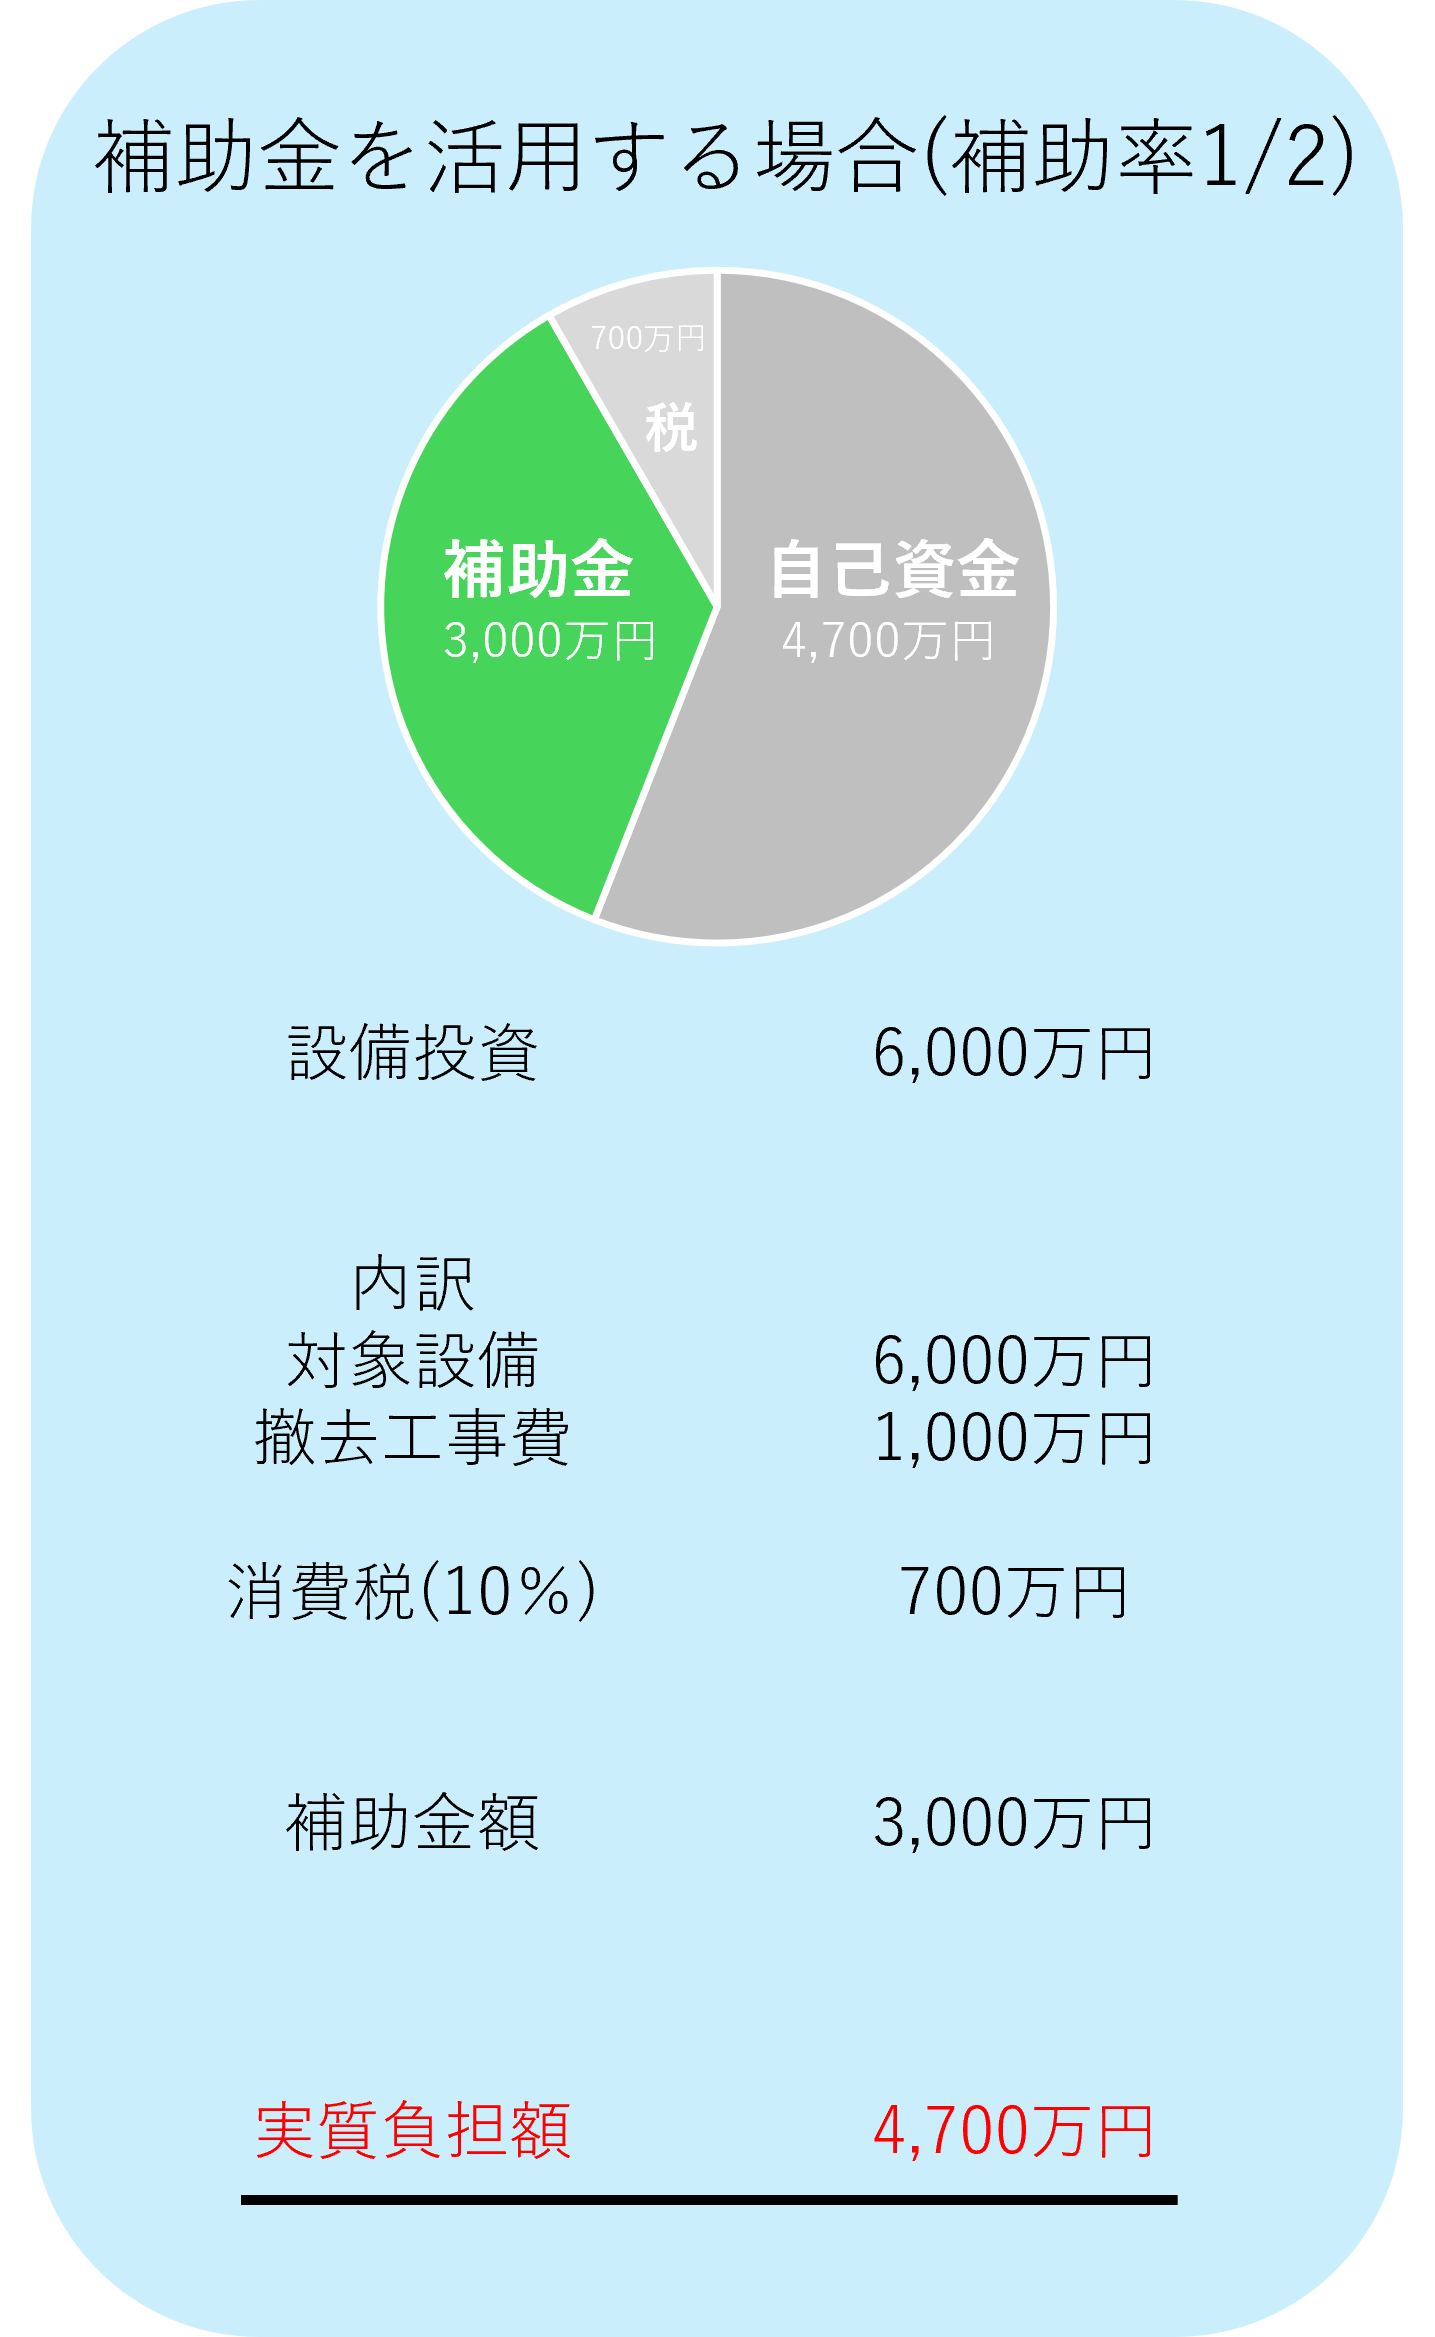
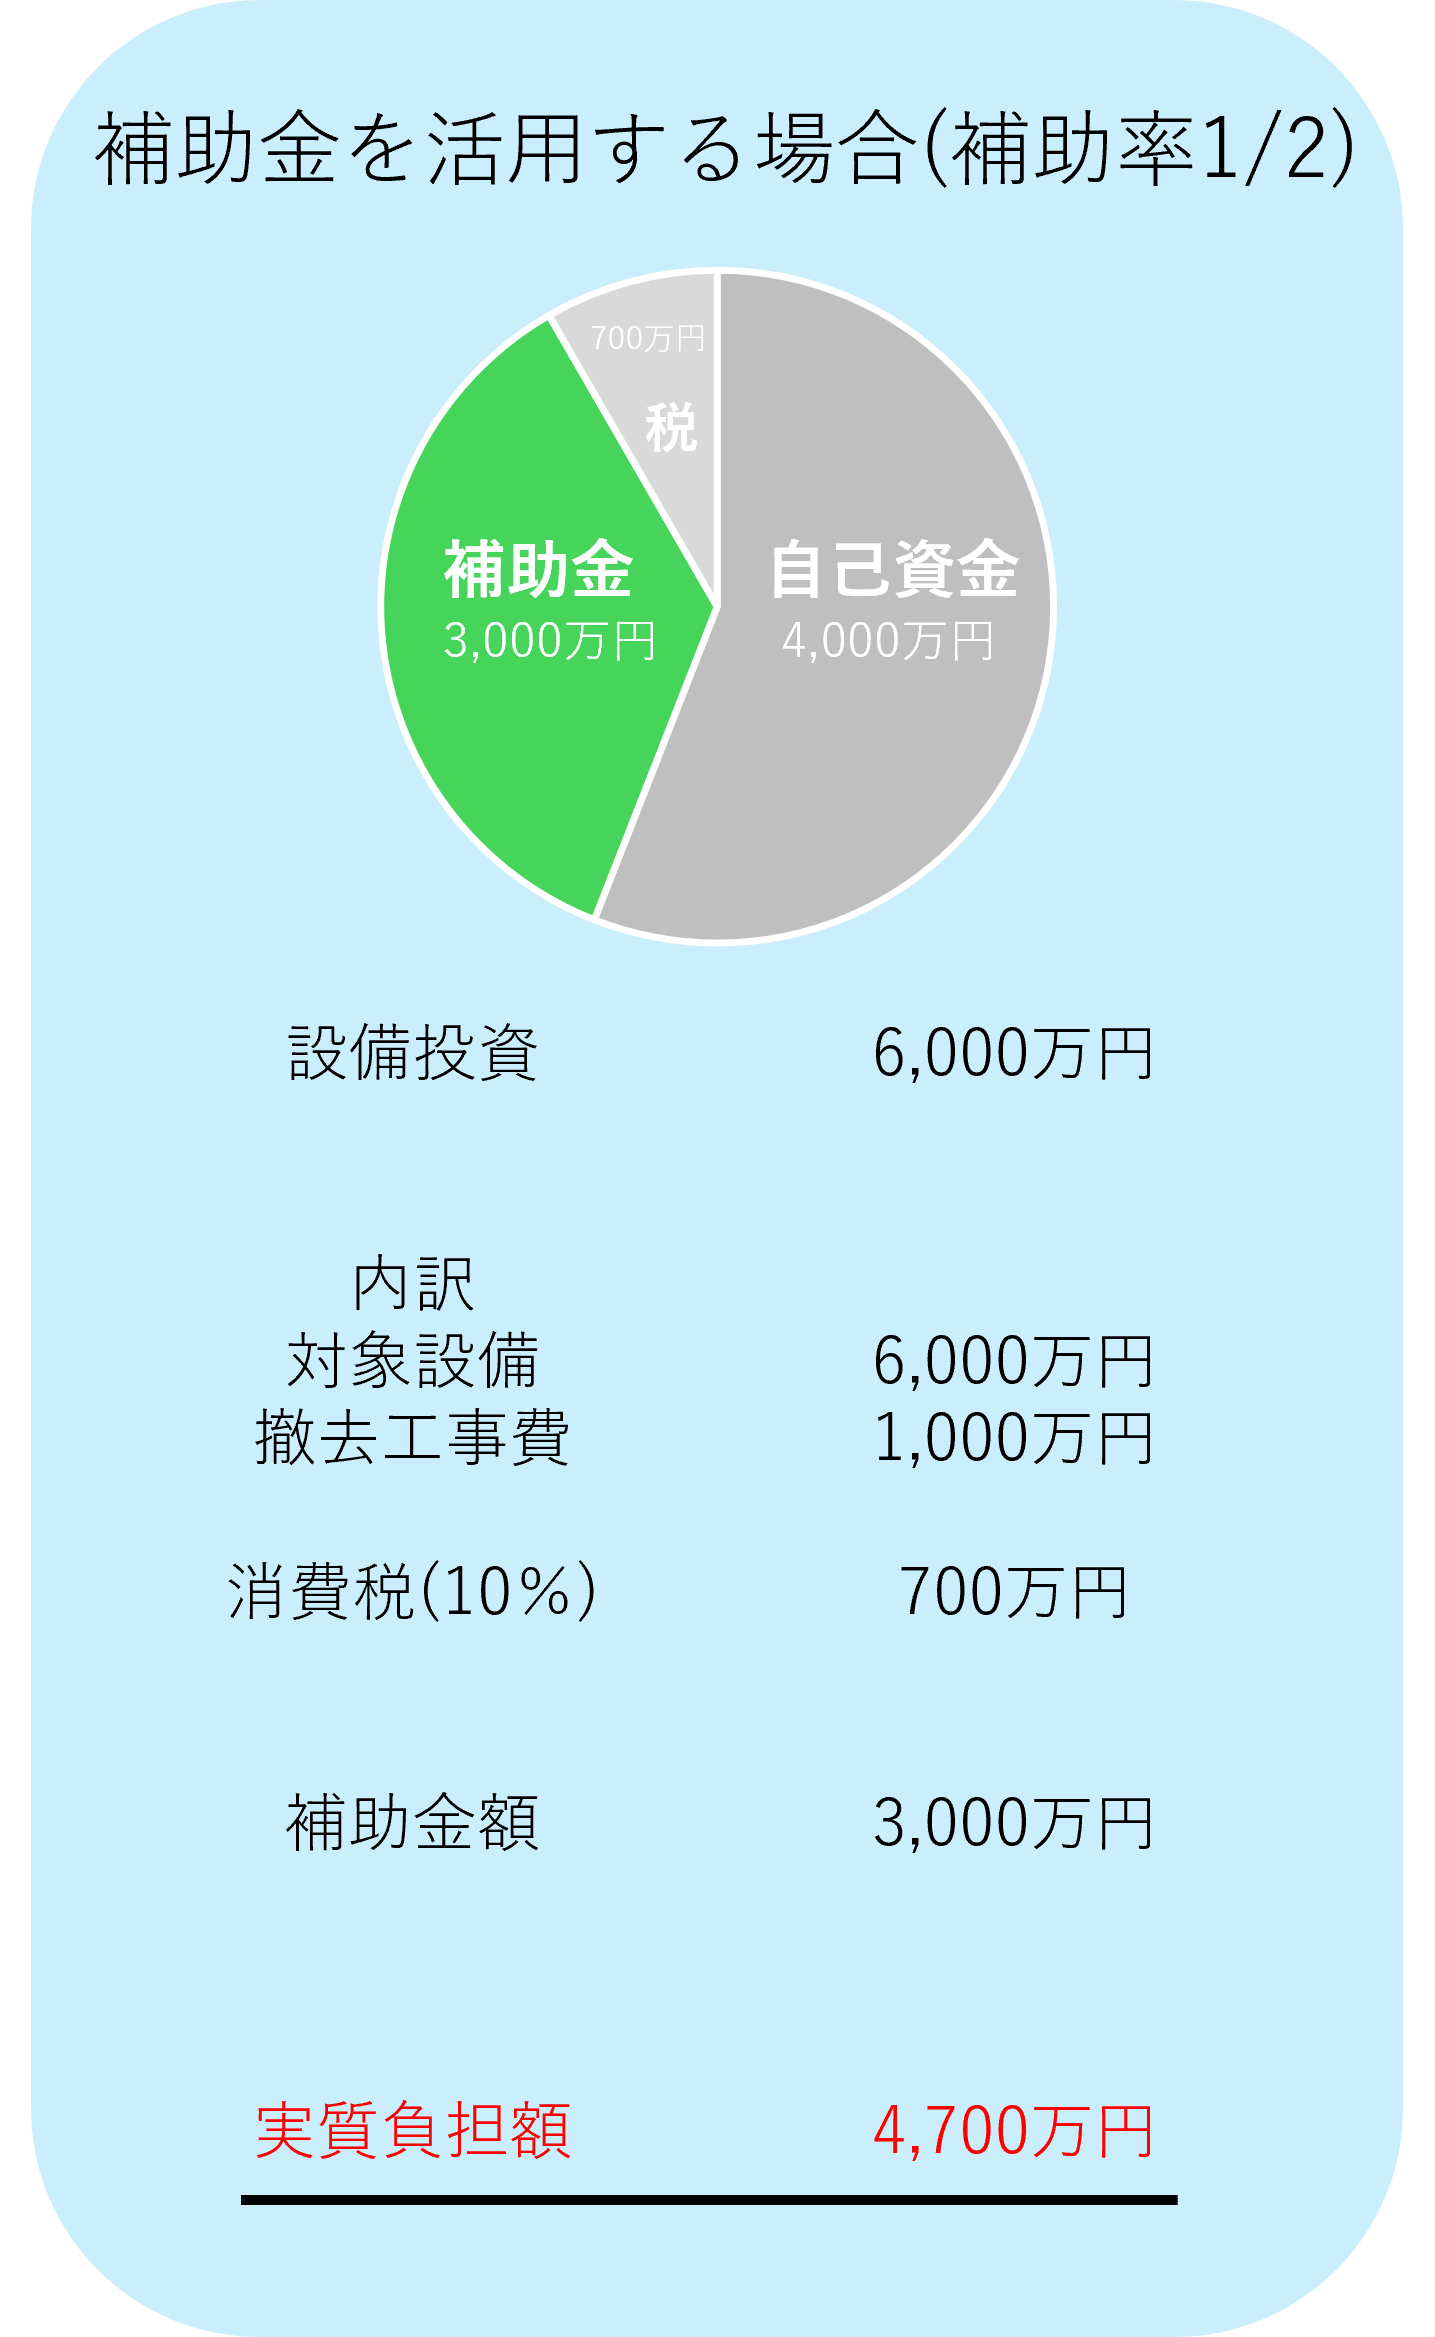
デザイン画像・文言・配色の修正依頼に対応
① ヘッダー左上のテキストロゴを画像ロゴ(透過PNG、白背景の枠を除去して
   トリミング)に変更
② ヒーローのバッジ「相談実績500件以上！採択率90%超」を削除。
   FV画像を提供された女性の写真に差し替え(web用にリサイズ・圧縮)
③ 「補助金活用の大きなメリット」の比較画像を新しいものに差し替え。
   導入後カードのscale-105を除去し、導入前カードと同じ大きさに統一
④ メリット見出し下に「～補助金が1/2の場合～」を追加。
   比較画像の下に「補助金を活用することで3,000万円お得に！」の
   ハイライトを追加
⑤ 「補助対象となる主な設備」セクションの背景を黒(bg-gray-800)から
   淡い緑(bg-green-50)に変更し、カード・アイコン・リストの配色を
   明るい背景でも視認できるよう調整

Claude-Session: https://claude.ai/code/session_01VohQkgiW7gfU5M2T1km8Ro

Changed region(s): [[0.4293, 0.0312, 0.8279, 0.0937], [0.0613, 0.0312, 0.3986, 0.0937], [0.8585, 0.0312, 0.9505, 0.0937]]

diff --git a/front-page.php b/front-page.php
@@ -11,9 +11,6 @@ get_header();
 		<div class="relative z-10 pb-8 bg-white sm:pb-16 md:pb-20 lg:max-w-2xl lg:w-full lg:pb-28 xl:pb-32 pt-10 sm:pt-16 lg:pt-20">
 			<div class="mt-10 mx-auto max-w-7xl px-4 sm:mt-12 sm:px-6 md:mt-16 lg:mt-20 lg:px-8 xl:mt-28">
 				<div class="sm:text-center lg:text-left">
-					<span class="inline-block py-1 px-3 rounded-full bg-blue-100 text-primary text-sm font-bold mb-4 border border-blue-200">
-						相談実績500件以上！採択率90%超
-					</span>
 					<h1 class="text-4xl tracking-tight font-extrabold text-gray-900 sm:text-5xl md:text-6xl leading-tight">
 						<span class="block mb-2">補助金申請のプロが</span>
 						<span class="block text-primary">省エネ補助金申請を伴走支援</span>
@@ -34,7 +31,7 @@ get_header();
 		</div>
 	</div>
 	<div class="lg:absolute lg:inset-y-0 lg:right-0 lg:w-1/2">
-		<img class="h-56 w-full object-cover sm:h-72 md:h-96 lg:w-full lg:h-full opacity-90" src="https://images.unsplash.com/photo-1581091226825-a6a2a5aee158?auto=format&amp;fit=crop&amp;w=1000&amp;q=80" alt="工場設備">
+		<img class="h-56 w-full object-cover sm:h-72 md:h-96 lg:w-full lg:h-full opacity-90" src="<?php echo esc_url( get_template_directory_uri() . '/assets/images/hero-fv.jpg' ); ?>" alt="株式会社サブサポ">
 		<div class="absolute inset-0 bg-gradient-to-r from-white via-white/50 to-transparent lg:block hidden"></div>
 	</div>
 </section>
@@ -86,6 +83,7 @@ get_header();
 		<div class="text-center mb-12">
 			<h2 class="text-3xl font-bold text-gray-900">補助金活用の<span class="text-primary">大きなメリット</span></h2>
 			<p class="mt-4 text-lg text-gray-600">補助金を活用することで、導入設備でかかる補助対象経費の最大2/3の補助が受けられます。</p>
+			<p class="mt-2 text-base font-bold text-secondary">～補助金が1/2の場合～</p>
 		</div>
 
 		<div class="flex flex-col md:flex-row items-center justify-center gap-8 md:gap-4 lg:gap-12">
@@ -102,10 +100,16 @@ get_header();
 				<i class="fas fa-chevron-down text-4xl text-secondary"></i>
 			</div>
 
-			<div class="w-full md:w-5/12 bg-white rounded-xl shadow-lg p-4 border-t-8 border-secondary relative transform scale-105">
+			<div class="w-full md:w-5/12 bg-white rounded-xl shadow-lg p-4 border-t-8 border-secondary relative">
 				<div class="absolute -top-5 left-1/2 transform -translate-x-1/2 bg-secondary text-white font-bold py-1 px-6 rounded-full shadow">導入後</div>
 				<img class="w-full h-auto rounded-lg mt-4" src="<?php echo esc_url( get_template_directory_uri() . '/assets/images/merit-after-with-subsidy.png' ); ?>" alt="補助金を活用する場合（補助率1/2）：実質負担額4,700万円">
 			</div>
+		</div>
+
+		<div class="mt-10 text-center">
+			<span class="inline-block bg-secondary text-white text-xl sm:text-2xl font-bold px-8 py-4 rounded-full shadow-md">
+				補助金を活用することで3,000万円お得に！
+			</span>
 		</div>
 	</div>
 </section>
@@ -163,40 +167,40 @@ get_header();
 	</div>
 </section>
 
-<section id="equipment" class="py-16 bg-gray-800 text-white">
+<section id="equipment" class="py-16 bg-green-50 text-gray-900">
 	<div class="max-w-7xl mx-auto px-4 sm:px-6 lg:px-8">
 		<div class="text-center mb-12">
 			<h2 class="text-3xl font-bold">補助対象となる主な設備</h2>
-			<p class="mt-4 text-gray-400">以下のような設備の更新で補助金が活用できます。<br>※上記以外も対象になる場合がございます。まずはお気軽にご相談下さい。</p>
+			<p class="mt-4 text-gray-600">以下のような設備の更新で補助金が活用できます。<br>※上記以外も対象になる場合がございます。まずはお気軽にご相談下さい。</p>
 		</div>
 
 		<div class="grid grid-cols-2 md:grid-cols-4 gap-4 md:gap-6 mb-12">
-			<div class="bg-gray-700 p-6 rounded-lg text-center border border-gray-600 hover:border-primary transition">
+			<div class="bg-white p-6 rounded-lg text-center border border-green-200 hover:border-primary shadow-sm transition">
 				<i class="fas fa-wind text-4xl text-primary mb-3"></i>
-				<h4 class="font-bold">空調設備</h4>
+				<h4 class="font-bold text-gray-800">空調設備</h4>
 			</div>
-			<div class="bg-gray-700 p-6 rounded-lg text-center border border-gray-600 hover:border-primary transition">
+			<div class="bg-white p-6 rounded-lg text-center border border-green-200 hover:border-primary shadow-sm transition">
 				<i class="fas fa-hot-tub text-4xl text-red-400 mb-3"></i>
-				<h4 class="font-bold">給湯設備</h4>
+				<h4 class="font-bold text-gray-800">給湯設備</h4>
 			</div>
-			<div class="bg-gray-700 p-6 rounded-lg text-center border border-gray-600 hover:border-primary transition">
-				<i class="fas fa-cogs text-4xl text-gray-300 mb-3"></i>
-				<h4 class="font-bold">生産設備</h4>
+			<div class="bg-white p-6 rounded-lg text-center border border-green-200 hover:border-primary shadow-sm transition">
+				<i class="fas fa-cogs text-4xl text-gray-500 mb-3"></i>
+				<h4 class="font-bold text-gray-800">生産設備</h4>
 			</div>
-			<div class="bg-gray-700 p-6 rounded-lg text-center border border-gray-600 hover:border-primary transition">
-				<i class="fas fa-tools text-4xl text-blue-300 mb-3"></i>
-				<h4 class="font-bold">工作機械</h4>
+			<div class="bg-white p-6 rounded-lg text-center border border-green-200 hover:border-primary shadow-sm transition">
+				<i class="fas fa-tools text-4xl text-blue-400 mb-3"></i>
+				<h4 class="font-bold text-gray-800">工作機械</h4>
 			</div>
 		</div>
 
-		<div class="bg-gray-900 rounded-lg p-8 border border-gray-700">
-			<h3 class="text-xl font-bold mb-4 text-center border-b border-gray-700 pb-4"><i class="fas fa-file-invoice-dollar mr-2 text-secondary"></i> 主な取り扱い補助事業</h3>
+		<div class="bg-white rounded-lg p-8 border border-green-200 shadow-sm">
+			<h3 class="text-xl font-bold mb-4 text-center border-b border-green-100 pb-4"><i class="fas fa-file-invoice-dollar mr-2 text-secondary"></i> 主な取り扱い補助事業</h3>
 			<ul class="grid md:grid-cols-3 gap-4 text-center">
-				<li class="bg-gray-800 py-3 px-4 rounded">経産省<br>省エネ・非化石転換補助金</li>
-				<li class="bg-gray-800 py-3 px-4 rounded">環境省<br>民間建築物等における省CO2改修支援事業</li>
-				<li class="bg-gray-800 py-3 px-4 rounded">環境省<br>テナントビルの省CO2改修支援事業</li>
+				<li class="bg-green-50 text-gray-800 py-3 px-4 rounded">経産省<br>省エネ・非化石転換補助金</li>
+				<li class="bg-green-50 text-gray-800 py-3 px-4 rounded">環境省<br>民間建築物等における省CO2改修支援事業</li>
+				<li class="bg-green-50 text-gray-800 py-3 px-4 rounded">環境省<br>テナントビルの省CO2改修支援事業</li>
 			</ul>
-			<p class="text-center text-gray-400 text-sm mt-6">その他にも様々な省エネ補助金がございます。申請者様にあった最適な補助金のご提案をさせて頂きます。</p>
+			<p class="text-center text-gray-600 text-sm mt-6">その他にも様々な省エネ補助金がございます。申請者様にあった最適な補助金のご提案をさせて頂きます。</p>
 		</div>
 	</div>
 </section>

diff --git a/header.php b/header.php
@@ -14,7 +14,7 @@
 	<div class="max-w-7xl mx-auto px-4 sm:px-6 lg:px-8">
 		<div class="flex justify-between items-center h-20">
 			<a href="<?php echo esc_url( home_url( '/' ) ); ?>" class="flex-shrink-0">
-				<span class="text-2xl font-bold text-primary tracking-wider">株式会社サブサポ</span>
+				<img src="<?php echo esc_url( get_template_directory_uri() . '/assets/images/subsupo-logo.png' ); ?>" alt="株式会社サブサポ" class="h-10 md:h-12 w-auto">
 			</a>
 
 			<nav class="hidden lg:flex space-x-6 items-center">
